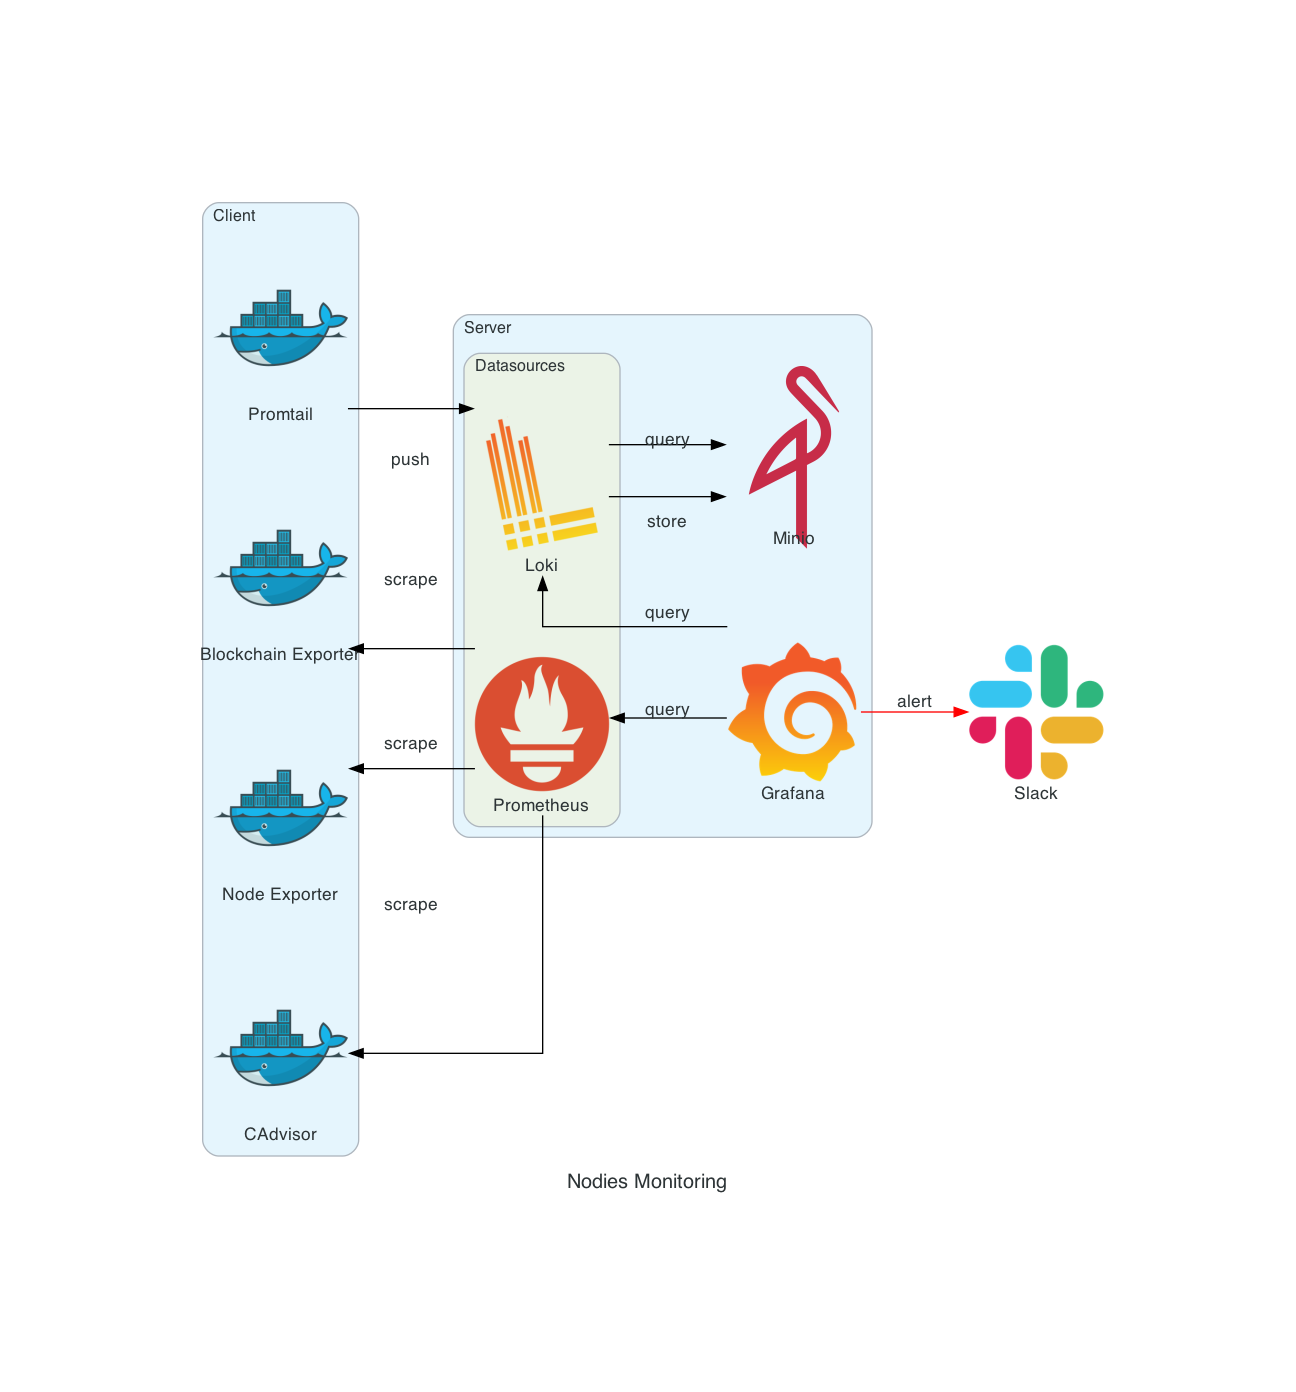
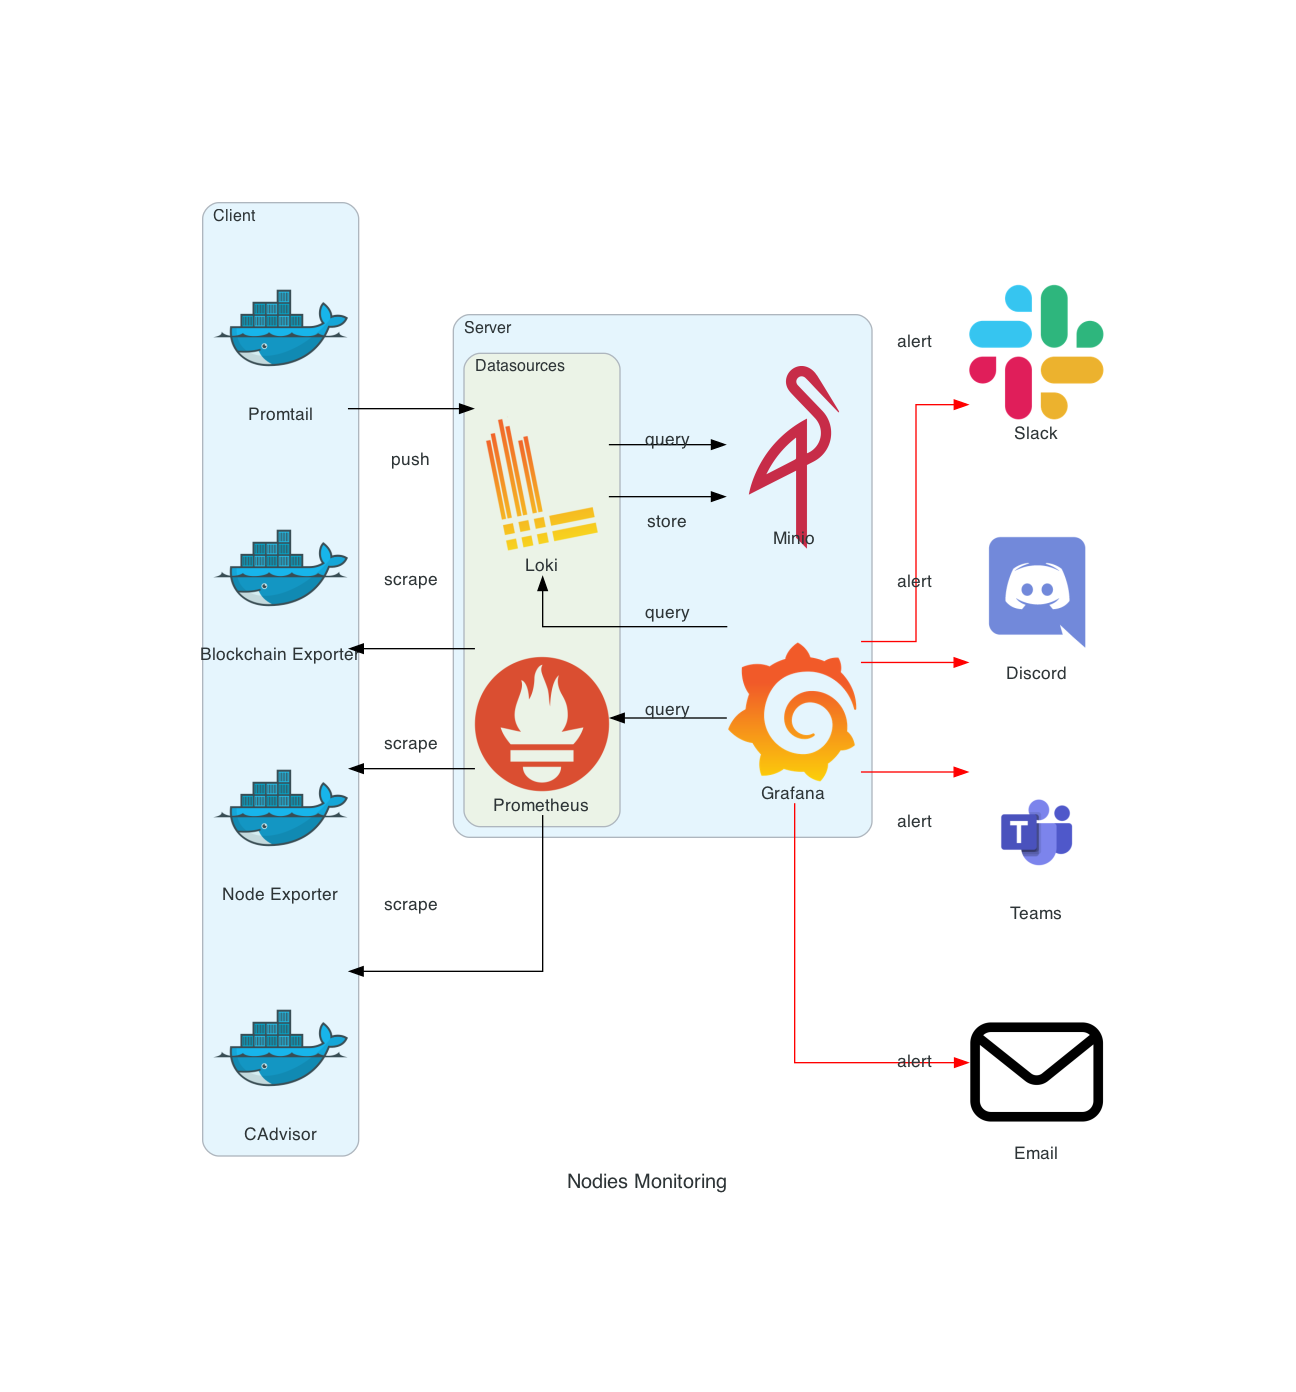
Added email and teams as alert options Updated architecture.png

diff --git a/setup.py b/setup.py
@@ -66,15 +66,18 @@ def update_notification_policies():
 
 def update_alerting_contactpoint():
     template_dict = get_template('templates/alerting/contactpoint.yaml')
-    valid_args = ["slack", "discord"]
-    for webhook_name, webhook_dict in settings["server"]["webhooks"].items():
-        if webhook_name not in valid_args:
-            print(f"not a supported contactpoint {webhook_name}")
+    valid_args = ["slack", "discord", "teams", "email"]
+    for alert_name, alert_dict in settings["server"]["alerts"].items():
+        if alert_name not in valid_args:
+            print(f"not a supported contactpoint {alert_name}")
         else:
             for idx, receiver_dict in enumerate(template_dict["contactPoints"][0]["receivers"]):
-                if receiver_dict["type"] == webhook_name:
-                    if webhook_dict["enabled"]:
-                        template_dict["contactPoints"][0]["receivers"][idx]["settings"]["url"] = webhook_dict["url"]
+                if receiver_dict["type"] == alert_name:
+                    if alert_dict["enabled"]:
+                        if alert_name == 'email':
+                            template_dict["contactPoints"][0]["receivers"][idx]["settings"]["addresses"] = ';'.join(alert_dict["addresses"])
+                        else:
+                            template_dict["contactPoints"][0]["receivers"][idx]["settings"]["url"] = alert_dict["url"]
                         if not Path('server/grafana_provisioning/alerting/notificationpolicies.yaml').exists():
                             update_notification_policies()
                     else:

diff --git a/documentation/diagram/diagram.py b/documentation/diagram/diagram.py
@@ -1,10 +1,10 @@
 from diagrams import Cluster, Diagram, Edge
 from diagrams.custom import Custom
+from diagrams.onprem.container import Docker
+from diagrams.onprem.logging import Loki
 from diagrams.onprem.monitoring import Grafana
 from diagrams.onprem.monitoring import Prometheus
-from diagrams.onprem.logging import Loki
-from diagrams.saas.chat import Slack
-from diagrams.onprem.container import Docker
+from diagrams.saas.chat import Slack, Discord, Teams
 
 with Diagram("Nodies Monitoring", filename="architecture", show=False):
     with Cluster("Client"):
@@ -34,10 +34,18 @@ with Diagram("Nodies Monitoring", filename="architecture", show=False):
 
     # definitions
     slack = Slack("Slack")
+    discord = Discord("Discord")
+    teams = Teams("Teams")
+    email = Custom("Email", "./email.png")
+
+    # alert connections
+    grafana >> Edge(label='alert', color="red", style="solid") >> slack
+    grafana >> Edge(label='alert', color="red", style="solid") >> discord
+    grafana >> Edge(label='alert', color="red", style="solid") >> teams
+    grafana >> Edge(label='alert', color="red", style="solid") >> email
 
     # connections
     blockchain_exporter << Edge(label='scrape', color="black", style="solid") << prometheus
     node_exporter << Edge(label='scrape', color="black", style="solid") << prometheus
     cadvisor << Edge(label='scrape', color="black", style="solid") << prometheus
     promtail >> Edge(label='push', color="black", style="solid") >> loki
-    grafana >> Edge(label='alert', color="red", style="solid") >> slack
